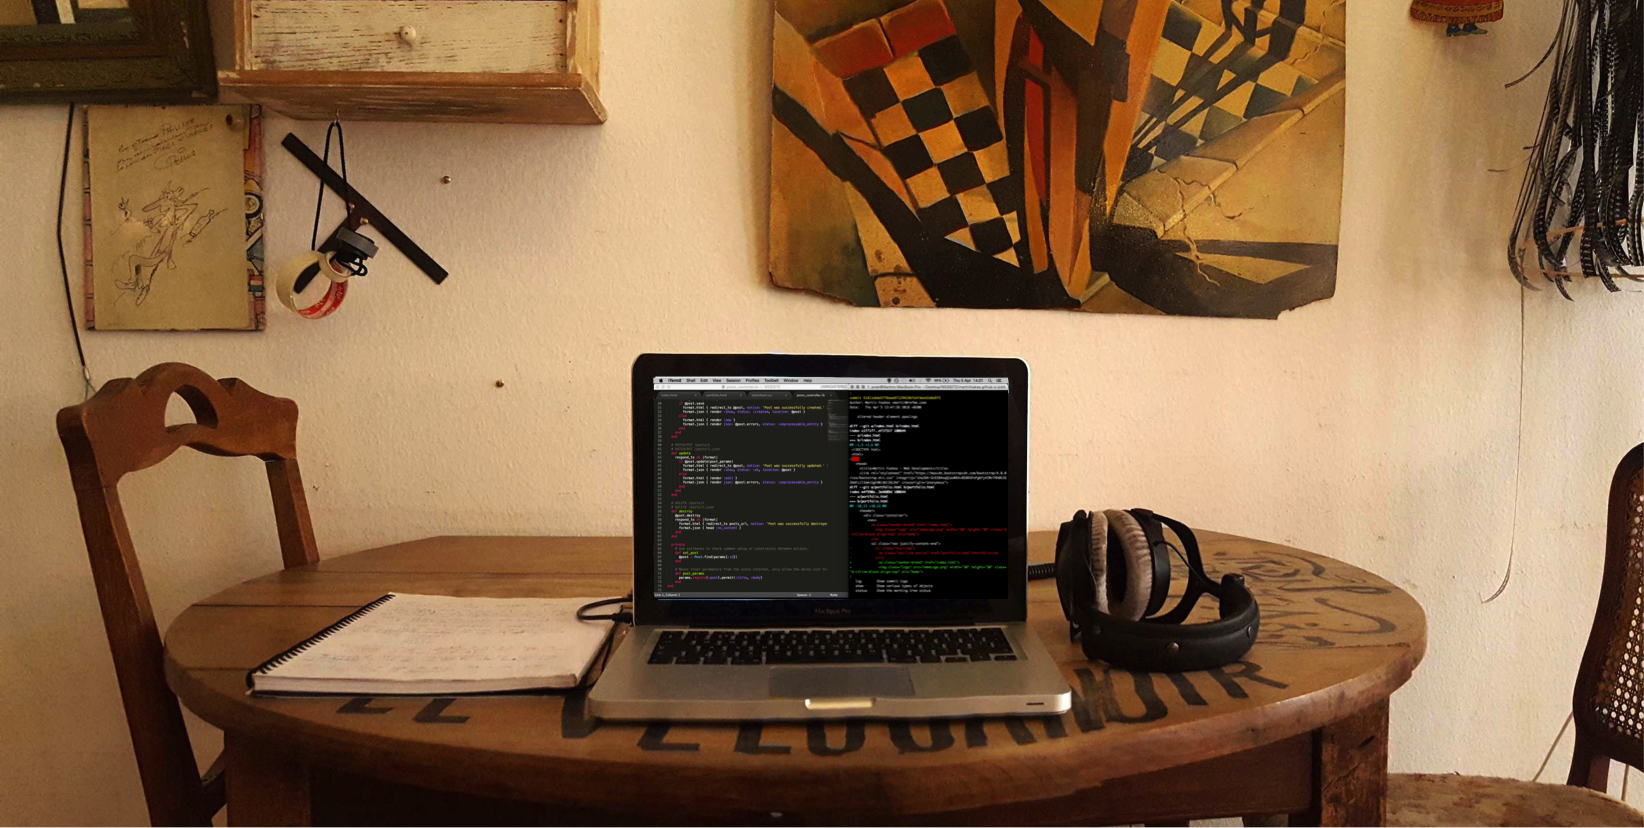
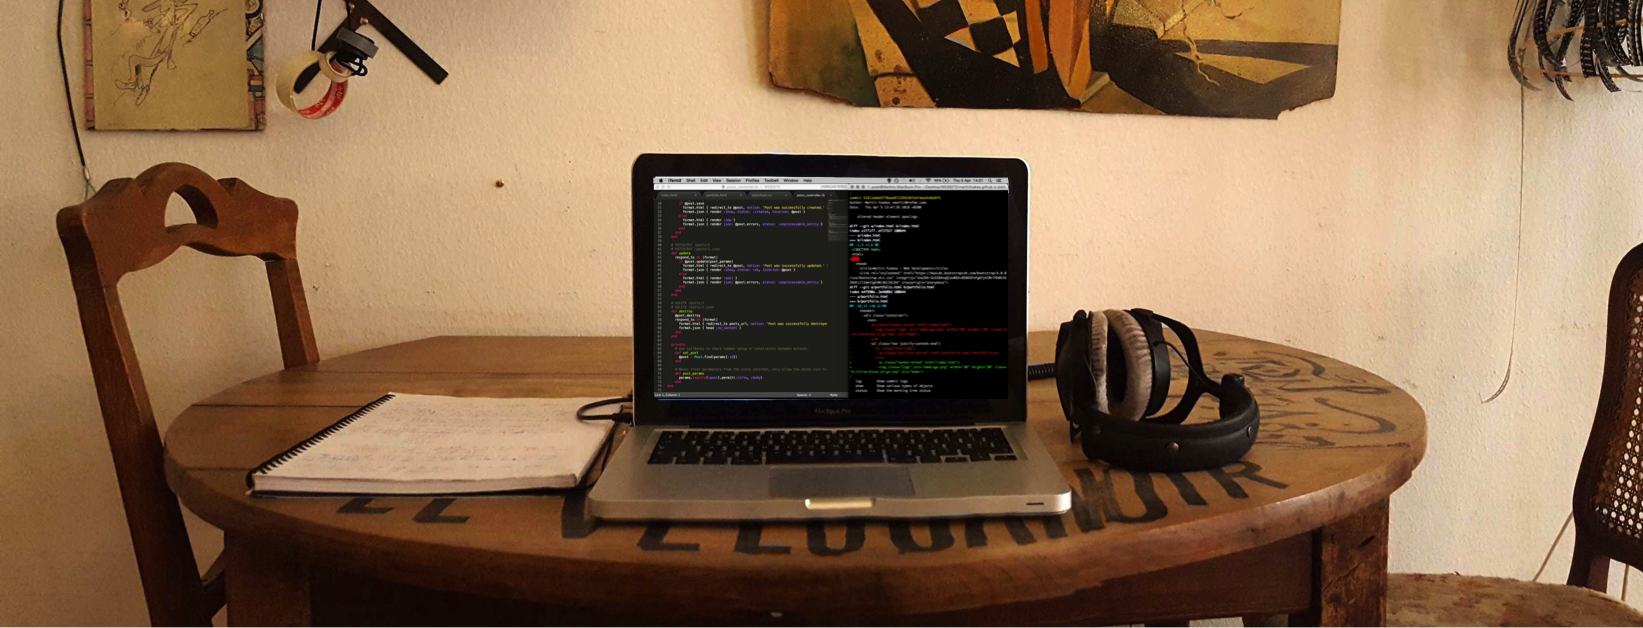
wrote the into text for the homepage, added margins around all text and image elements, resized homepage image to be c.50% height

diff --git a/index.html b/index.html
@@ -28,11 +28,12 @@
     <div class="main">
       <div class="wrap">
         <div class="content">
-          <section class="">
-            
+          <section class="home-intro-text">
+            <h3>Hi, I'm Martin.
+                <br>A freelance Web Designer and Developer currently living in Berlin.</h3>
           </section>
           <section class="home-image-main">
-            <img src="Images/HomepageImage.png" alt="Martin Foakes">
+            <img class="home-image" src="Images/HomepageImage.png" alt="Martin Foakes">
           </section>
           <section class="home-text">
               <p align="center">SITE CURRENTLY UNDER MAINTENANCE</p>

diff --git a/stylesheet.css b/stylesheet.css
@@ -98,7 +98,24 @@ body {
     to   { opacity: 1; }
 }
 
-.home-image-main {
+.home-intro-text {
     padding-top: 6em;
-    padding-bottom: 6em;
+    padding-bottom: 4em;
+    padding-left: 2em;
+    padding-right: 2em;
+    max-width: 80em;
+    margin-left: auto;
+    margin-right: auto;
+}
+
+.home-image-main {
+    padding-left: 2em;
+    padding-right: 2em;
+}
+
+.home-image {
+    display: block;
+    width: 100%;
+    height: auto;
+    margin-bottom: 2em;
 }
